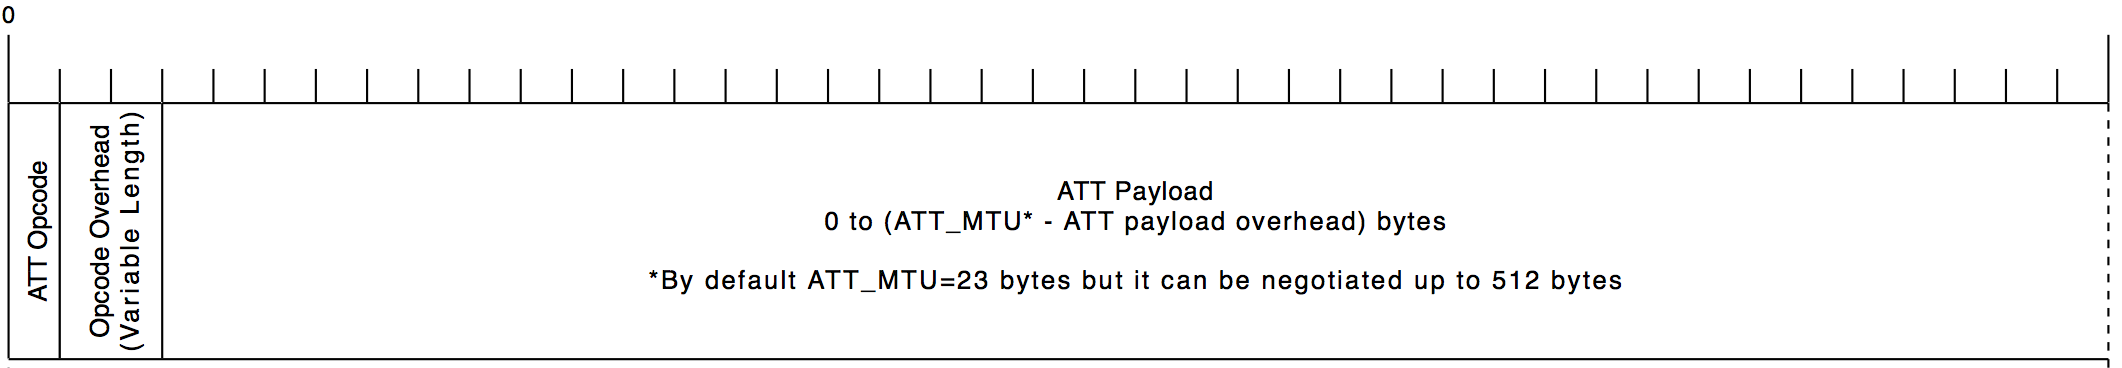
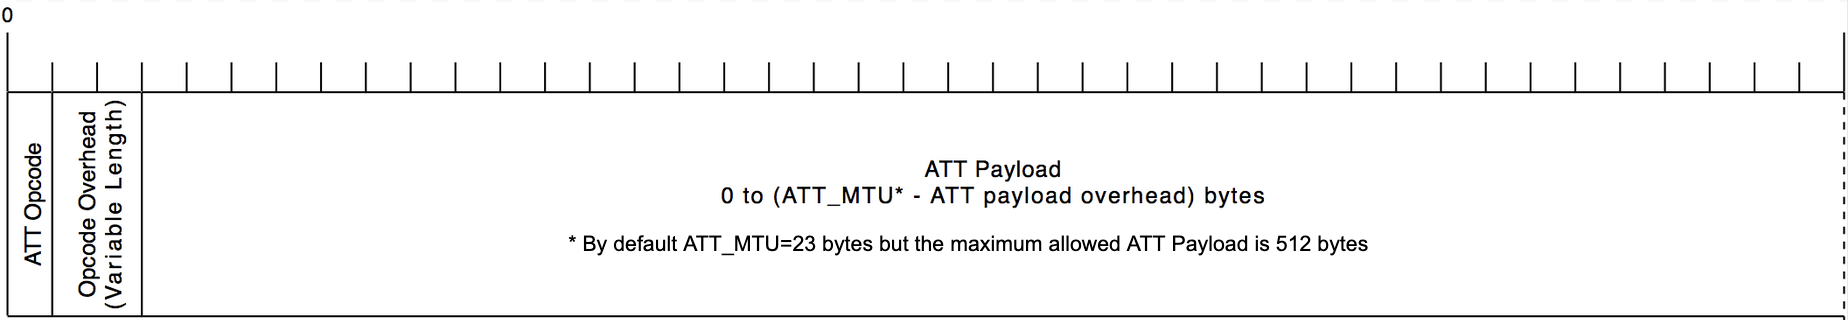
Minor BLE Primer Edits
- Include links to iOS Core Bluetooth presentation regarding L2CAP/BLE
  throughput. It provides a great overview for iOS and a few readers
  brought up this presentation specifically
- Tweak verbiage around maximum MTU size to be more inline with the
  way it is documented in the Core Specification

diff --git a/_posts/2019-09-24-ble-throughput-primer.md b/_posts/2019-09-24-ble-throughput-primer.md
@@ -120,7 +120,13 @@ protocol uses.
 
 > NOTE: For an excellent article about GATT itself, check out Mohammad Afaneh's thorough [BLE Primer post](https://interrupt.memfault.com/blog/bluetooth-low-energy-a-primer) on the topic!
 
-ATT packets can span multiple LL packets. The size of the data unit within an ATT packet is known as the _Maximum Transmission Unit_ (**MTU**). The default size is 23 bytes (which allows the packet to fit in one LL packet) but the size can be negotiated via the _Exchange MTU Request & Response_. The maximum MTU which can be negotiated is 512 bytes.
+ATT packets can span multiple LL packets. The size of the data unit within an ATT packet is known
+as the _Maximum Transmission Unit_ (**MTU**). The default size is 23 bytes (which allows the packet
+to fit in one LL packet) but the size can be negotiated via the _Exchange MTU Request & Response_.
+
+Per the Bluetooth Core Specification, the maximum allowed length of an attribute value (the ATT payload) is 512
+bytes[^11]. While this technically means the MTU size can be slightly larger than 512 bytes (to
+accomodate for the ATT protocol overhead), most bluetooth stacks support a maximum MTU value of 512 bytes.
 
 The packet looks like this:
 
@@ -138,11 +144,11 @@ Tabulating this information for a couple common MTU sizes we get:
 
 {: #max-throughput-gatt}
 
-| MTU size (bytes)    | Throughput (Mbps) |
-| ------------------- | ----------------- |
-| 23 (default)        | 0.226             |
-| 185 (iOS 10 max)    | 0.294             |
-| 512 (bluetooth max) | 0.301             |
+| MTU size (bytes) | Throughput (Mbps) |
+| ---------------- | ----------------- |
+| 23 (default)     | 0.226             |
+| 185 (iOS 10 max) | 0.294             |
+| 512              | 0.301             |
 
 ## Bluetooth Low Energy Specification Updates Impacting Throughput
 
@@ -346,6 +352,13 @@ See anything you'd like to change? Submit a pull request or open an issue at [Gi
 
 {:.no_toc}
 
+## Further Reading
+
+For iOS specifically, a few readers[^12] pointed out this
+[slide deck](https://devstreaming-cdn.apple.com/videos/wwdc/2017/712jqzhsxoww3zn/712/712_whats_new_in_core_bluetooth.pdf)
+and [video](https://developer.apple.com/videos/play/wwdc2017/712/) from 2017 WWDC. The
+presentation provides an excellent overview of how to get the most out of iOS Core Bluetooth.
+
 ## Reference Links
 
 [^1]: [Bluetooth SIG Specification Archives](https://www.bluetooth.com/specifications/archived-specifications/)
@@ -358,3 +371,5 @@ See anything you'd like to change? Submit a pull request or open an issue at [Gi
 [^8]: [Reddit comment about Nordic's BLE sniffer](https://www.reddit.com/r/embedded/comments/d95obo/a_practical_guide_to_ble_throughput/f1f0q68/)
 [^9]: [nRF Sniffer For Bluetooth LE](https://www.nordicsemi.com/Software-and-Tools/Development-Tools/nRF-Sniffer-for-Bluetooth-LE)
 [^10]: [More details about GATT Operations](https://interrupt.memfault.com/blog/bluetooth-low-energy-a-primer#services-and-characteristics)
+[^11]: See "3.2.9 Long Attribute Values" of the [Bluetooth 5.1 Core Specification](https://www.bluetooth.com/specifications/bluetooth-core-specification/)
+[^12]: See comment from _/u/writtenabode_ on [Reddit](https://www.reddit.com/r/embedded/comments/d95obo/a_practical_guide_to_ble_throughput/f22udsz/) and _oflannabhra_ on [HN](https://news.ycombinator.com/item?id=21082583)
